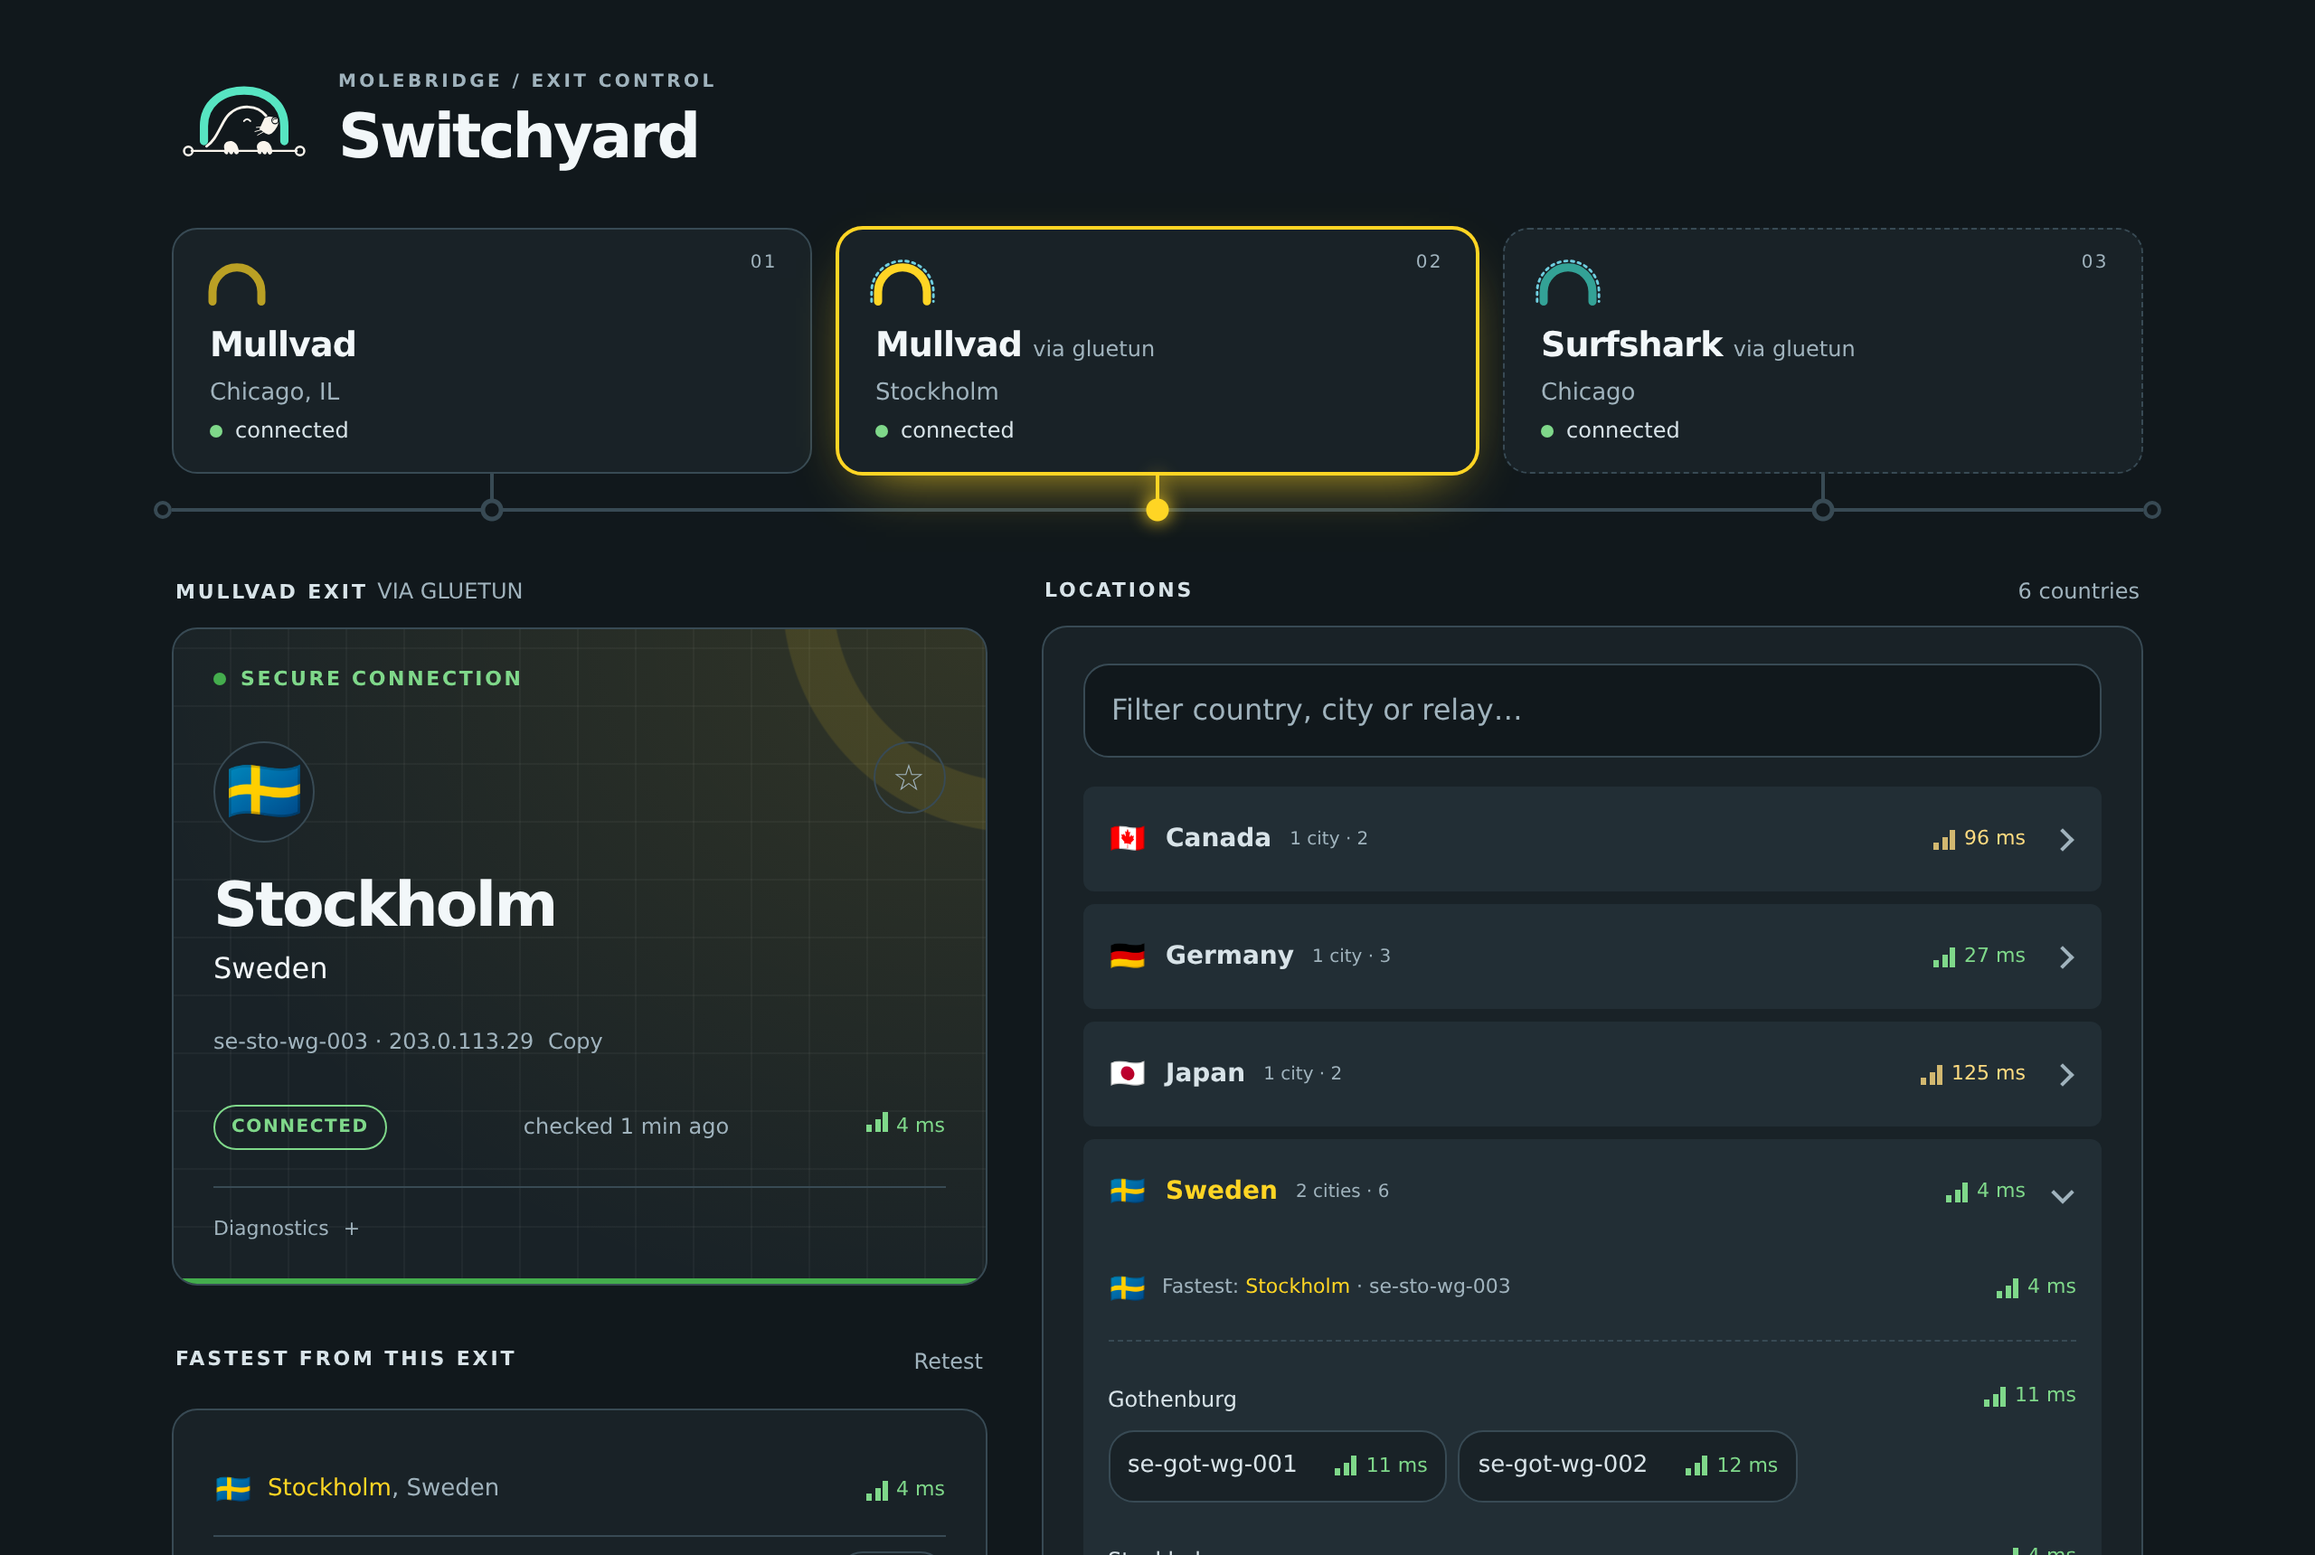
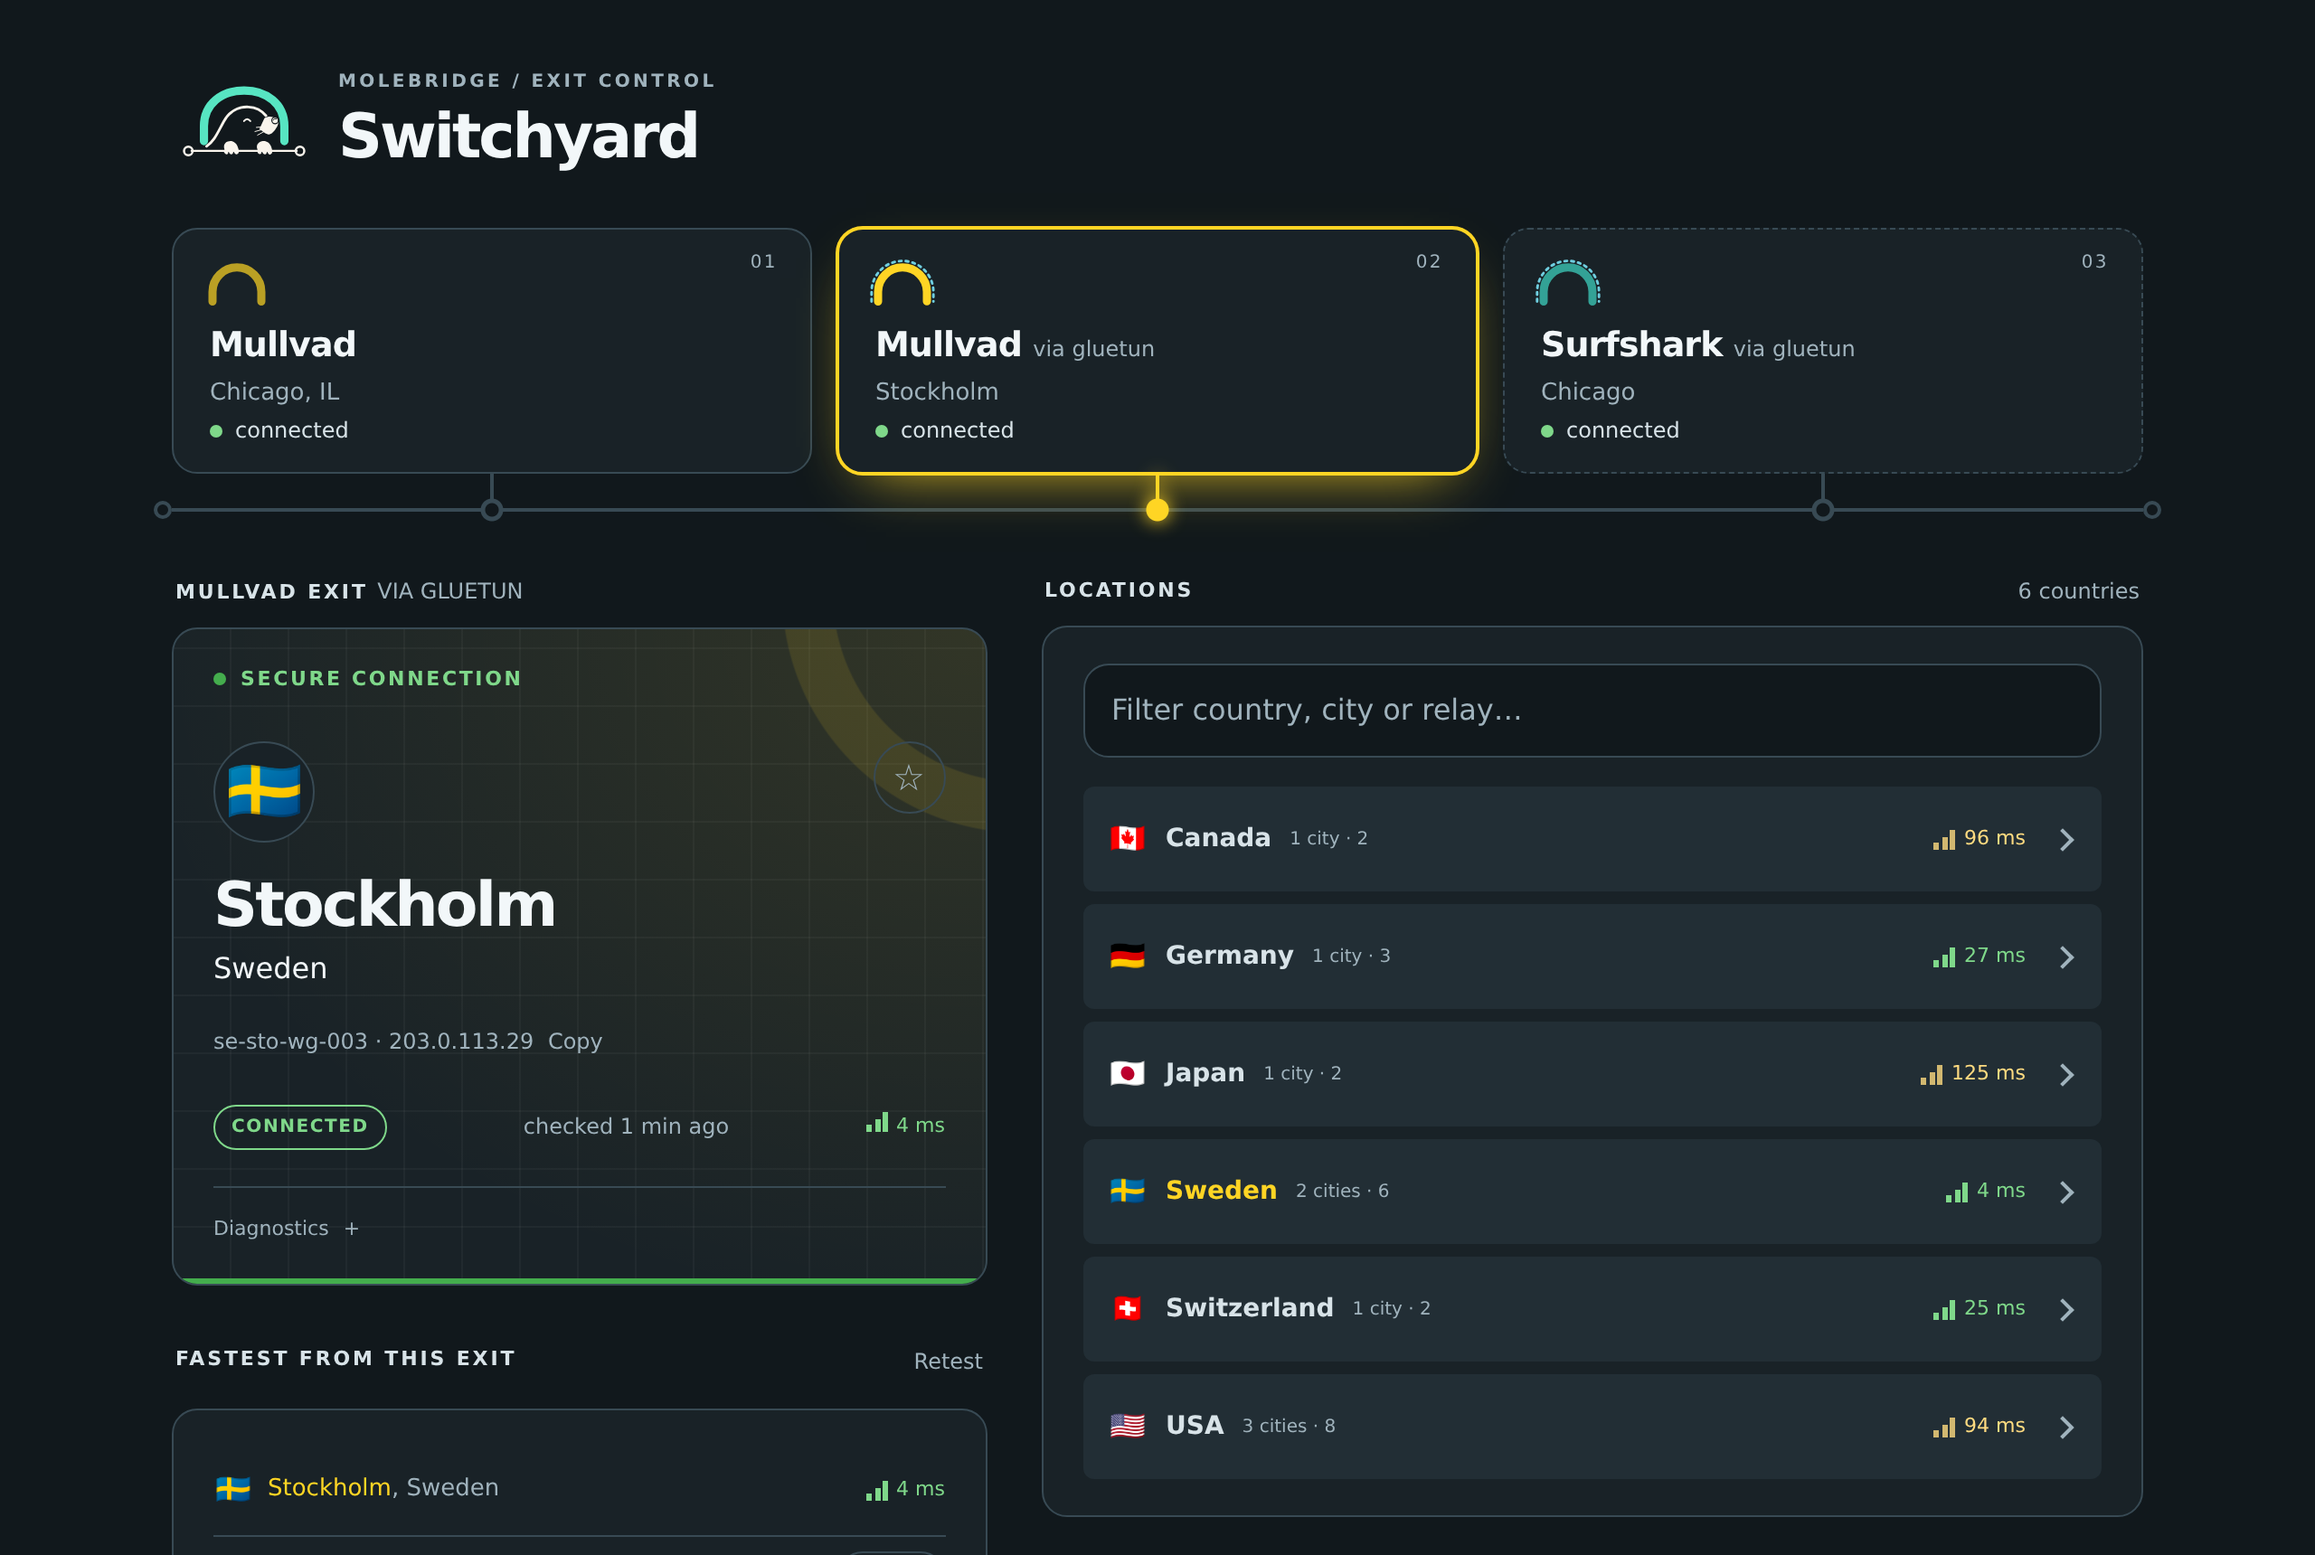
docs: crop the configured screenshot and close the open country
switchyard-configured.png ends 48 px below the exit card instead of on
450 px of empty background (2560x1226). In switchyard.png and
switchyard-gluetun.png the capture closes the current country's section,
as a click would, so the location list no longer ends mid-row.

diff --git a/tools/screenshots/capture.js b/tools/screenshots/capture.js
@@ -17,12 +17,16 @@ const VIEWPORT = { width: 1280, height: 860 };
 const SCALE = 2;
 
 // Each screenshot: the scene TestWriteScreenshotState seeds, and the exit
-// whose page is shown ('' for a single-exit panel).
+// whose page is shown ('' for a single-exit panel). collapse closes the
+// current country's section, which the page opens, as a click on it would,
+// so the location list ends inside the frame. crop cuts the image 48 px
+// below the page's content, for a page shorter than the viewport.
 const SHOTS = [
-  { scene: 'switchyard', exit: 'mullvad' },
-  { scene: 'switchyard-gluetun', exit: 'mullvad-gluetun' },
-  { scene: 'switchyard-configured', exit: '' },
+  { scene: 'switchyard', exit: 'mullvad', collapse: true },
+  { scene: 'switchyard-gluetun', exit: 'mullvad-gluetun', collapse: true },
+  { scene: 'switchyard-configured', exit: '', crop: true },
 ];
+const CROP_MARGIN = 48;
 
 function seed(dir) {
   execFileSync('go', ['test', '-count=1', '-run', '^TestWriteScreenshotState$', './internal/panel'], {
@@ -95,8 +99,20 @@ async function shoot(browser, binary, stateDir, shot, port) {
     await page.goto(shot.exit ? `${url}/?exit=${shot.exit}` : `${url}/`, { waitUntil: 'networkidle' });
     // Let the latency answers land and the entrance motion finish.
     await page.waitForTimeout(1500);
+    if (shot.collapse) {
+      await page.click('details.country.is-current[open] > summary');
+      // Leave no hover or focus on the row the click closed.
+      await page.mouse.move(0, 0);
+      await page.evaluate(() => document.activeElement && document.activeElement.blur());
+      await page.waitForTimeout(800);
+    }
     const out = path.join(ASSETS, `${shot.scene}.png`);
-    await page.screenshot({ path: out });
+    let clip;
+    if (shot.crop) {
+      const bottom = await page.evaluate(() => document.querySelector('.switchboard').getBoundingClientRect().bottom);
+      clip = { x: 0, y: 0, width: VIEWPORT.width, height: Math.min(VIEWPORT.height, Math.ceil(bottom) + CROP_MARGIN) };
+    }
+    await page.screenshot({ path: out, clip });
     await context.close();
     console.log(`wrote ${path.relative(ROOT, out)}`);
   } finally {

diff --git a/tools/screenshots/README.md b/tools/screenshots/README.md
@@ -26,7 +26,10 @@ records) and the panel's request, plus a `scene.json` with the panel's
 environment. For each scene it starts `molebridge panel` on loopback with
 only that environment and `MOLEBRIDGE_PANEL_ISOLATION_CHECK=off`, opens the
 page in Chromium at 1280×860 with a device scale factor of 2, and writes a
-2560×1720 PNG. The social preview is the SVG on a 1280×640 page at the same
+2560×1720 PNG. In the two multi-exit scenes it closes the current
+country's section, which the page opens, so the location list ends inside
+the frame. The configured scene is cropped 48 px below the exit card, at
+full width. The social preview is the SVG on a 1280×640 page at the same
 scale, 2560×1280.
 
 Chromium on Linux picks fonts through fontconfig, and a fontconfig without

diff --git a/CHANGELOG.md b/CHANGELOG.md
@@ -151,7 +151,7 @@ record is in [docs/testing.md](docs/testing.md). Upgrade by following
   No unsafe routing sample and no restart are allowed. The steps are in
   [releasing](docs/releasing.md) (#128).
 - Docs: the Switchyard screenshots and the social preview are retaken at
-  twice their size (2560×1720 and 2560×1280), so they stay sharp on
+  twice their size (2560 px wide), so they stay sharp on
   high-density screens. The screenshots' PIA exit is on a Chicago region
   instead of the test fixture's "Example City", and every exit's place
   matches its server. `tools/screenshots/capture.js` retakes them: it seeds
